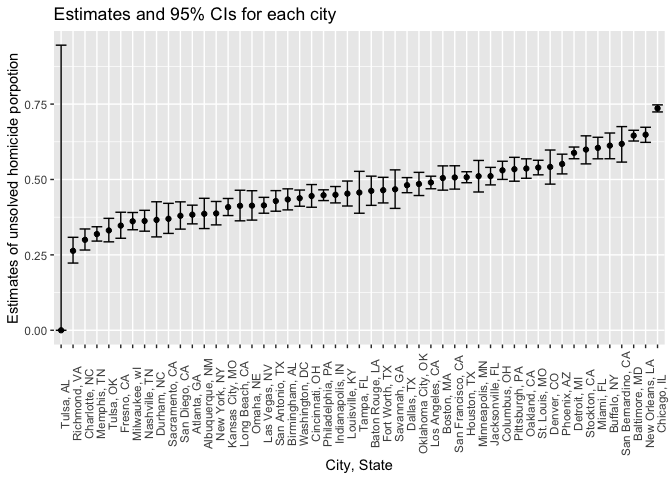
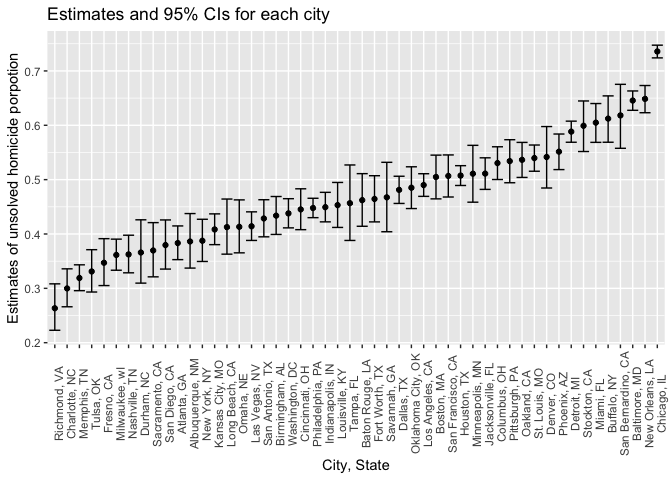
finish descriptions and contexts

diff --git a/P8105_hw5_qx2222.md b/P8105_hw5_qx2222.md
@@ -94,44 +94,29 @@ homicide = read_csv("data/homicide-data.csv") #import 'homicide' data
     ## ℹ Use `spec()` to retrieve the full column specification for this data.
     ## ℹ Specify the column types or set `show_col_types = FALSE` to quiet this message.
 
-``` r
-homicide
-```
-
-    ## # A tibble: 52,179 × 12
-    ##    uid   repor…¹ victi…² victi…³ victi…⁴ victi…⁵ victi…⁶ city  state   lat   lon
-    ##    <chr>   <dbl> <chr>   <chr>   <chr>   <chr>   <chr>   <chr> <chr> <dbl> <dbl>
-    ##  1 Alb-…  2.01e7 GARCIA  JUAN    Hispan… 78      Male    Albu… NM     35.1 -107.
-    ##  2 Alb-…  2.01e7 MONTOYA CAMERON Hispan… 17      Male    Albu… NM     35.1 -107.
-    ##  3 Alb-…  2.01e7 SATTER… VIVIANA White   15      Female  Albu… NM     35.1 -107.
-    ##  4 Alb-…  2.01e7 MENDIO… CARLOS  Hispan… 32      Male    Albu… NM     35.1 -107.
-    ##  5 Alb-…  2.01e7 MULA    VIVIAN  White   72      Female  Albu… NM     35.1 -107.
-    ##  6 Alb-…  2.01e7 BOOK    GERALD… White   91      Female  Albu… NM     35.2 -107.
-    ##  7 Alb-…  2.01e7 MALDON… DAVID   Hispan… 52      Male    Albu… NM     35.1 -107.
-    ##  8 Alb-…  2.01e7 MALDON… CONNIE  Hispan… 52      Female  Albu… NM     35.1 -107.
-    ##  9 Alb-…  2.01e7 MARTIN… GUSTAVO White   56      Male    Albu… NM     35.1 -107.
-    ## 10 Alb-…  2.01e7 HERRERA ISRAEL  Hispan… 43      Male    Albu… NM     35.1 -107.
-    ## # … with 52,169 more rows, 1 more variable: disposition <chr>, and abbreviated
-    ## #   variable names ¹reported_date, ²victim_last, ³victim_first, ⁴victim_race,
-    ## #   ⁵victim_age, ⁶victim_sex
-
 ### Describe the raw data:
 
-In the raw homicide data, there are 52179 observations and 12 variables.
+In the raw homicide data, there are 52179 observations and 12
+variables,such as uid, reported_date, victim_last, victim_first,
+victim_race, victim_age, victim_sex, city, state, lat, lon, disposition.
+This dataset describe data on more than 52,000 criminal homicides over
+the past decade in 50 of the largest American cities.
 
 ### Create new variables
 
 ``` r
 homicide = homicide %>%
   mutate(city_state = str_c(city, ", ", state)) %>%
+  filter(city_state!="Tulsa, AL") %>% #clear error data: Tulsa is not located in AL
   mutate(homicide_status = if_else(disposition == "Closed without arrest", "unsolved",
                                    if_else(disposition == "Open/No arrest", "unsolved",
                                            if_else(disposition == "Closed by arrest", "solved", NA_character_))))
 
+
 homicide
 ```
 
-    ## # A tibble: 52,179 × 14
+    ## # A tibble: 52,178 × 14
     ##    uid   repor…¹ victi…² victi…³ victi…⁴ victi…⁵ victi…⁶ city  state   lat   lon
     ##    <chr>   <dbl> <chr>   <chr>   <chr>   <chr>   <chr>   <chr> <chr> <dbl> <dbl>
     ##  1 Alb-…  2.01e7 GARCIA  JUAN    Hispan… 78      Male    Albu… NM     35.1 -107.
@@ -144,7 +129,7 @@ homicide
     ##  8 Alb-…  2.01e7 MALDON… CONNIE  Hispan… 52      Female  Albu… NM     35.1 -107.
     ##  9 Alb-…  2.01e7 MARTIN… GUSTAVO White   56      Male    Albu… NM     35.1 -107.
     ## 10 Alb-…  2.01e7 HERRERA ISRAEL  Hispan… 43      Male    Albu… NM     35.1 -107.
-    ## # … with 52,169 more rows, 3 more variables: disposition <chr>,
+    ## # … with 52,168 more rows, 3 more variables: disposition <chr>,
     ## #   city_state <chr>, homicide_status <chr>, and abbreviated variable names
     ## #   ¹reported_date, ²victim_last, ³victim_first, ⁴victim_race, ⁵victim_age,
     ## #   ⁶victim_sex
@@ -211,7 +196,6 @@ homicide_table
 | St. Louis, MO      |                     1677 |                         905 |
 | Stockton, CA       |                      444 |                         266 |
 | Tampa, FL          |                      208 |                          95 |
-| Tulsa, AL          |                        1 |                           0 |
 | Tulsa, OK          |                      583 |                         193 |
 | Washington, DC     |                     1345 |                         589 |
 
@@ -255,12 +239,7 @@ cities_final = homicide %>%
   mutate(cities_test = map(data, proptest_function)) %>%
   unnest(cities_test) %>%
   select(city_state,estimate,starts_with('conf'))
-```
 
-    ## Warning in prop.test(summary %>% pull(number_unsolved), summary %>%
-    ## pull(total_homicide)): Chi-squared approximation may be incorrect
-
-``` r
 cities_final %>%
   knitr::kable(col.names = c("City, State", "estimate","confidenceinterval_low","confidenceinterval_high"))
 ```
@@ -316,7 +295,6 @@ cities_final %>%
 | Stockton, CA       | 0.5990991 |              0.5517145 |               0.6447418 |
 | Tampa, FL          | 0.4567308 |              0.3881009 |               0.5269851 |
 | Tulsa, OK          | 0.3310463 |              0.2932349 |               0.3711192 |
-| Tulsa, AL          | 0.0000000 |              0.0000000 |               0.9453792 |
 | Washington, DC     | 0.4379182 |              0.4112495 |               0.4649455 |
 
 ### Create plot
@@ -345,6 +323,9 @@ ggsave(
   units = "cm"
   ) #export plot to 'results' directory
 ```
+
+This plot shows the estimates and CIs for each city and organize cities
+according to the proportion of unsolved homicides.
 
 ## Problem 3
 
@@ -411,7 +392,12 @@ ggsave(
   ) #export plot to 'results' directory
 ```
 
-Describe the association between effect size and power:
+### Describe the association between effect size and power:
+
+From the plot in output, we could see there is a increasing trend
+between the proportion of times the null was rejected and the true mean.
+Thus, there is a postive relationship between power and effect size.
+When the effect size increases, the power increases.
 
 ### Make a plot showing the average estimate of μ̂ on the y axis and the true value of μ on the x axis
 
@@ -460,7 +446,9 @@ overlay_plot = ggplot(all_estimates, aes(x = mean, y = average_estimate)) +
   geom_point(data = all_estimates, aes(color = "blue"))+
   scale_colour_manual(name = "",
                       values = c("orange" ="orange", "blue" = "blue"),
-                      labels = c("All", "Rejected"))
+                      labels = c("All", "Rejected"))+
+  labs(x = "true mean", y = "the average estimate",
+       title = "the true mean v.s. the average estimate")
   
 overlay_plot 
 ```
@@ -476,3 +464,20 @@ ggsave(
   units = "cm"
   ) #export plot to 'results' directory
 ```
+
+### Answer questions:
+
+Is the sample average of μ̂ across tests for which the null is rejected
+approximately equal to the true value of μ? Why or why not?
+
+From the final overlay plot, we could conclude the sample average of μ̂
+across tests for which the null is not approximately equal to the true
+value of μ. When the true mean is smaller than 4, the sample average
+estimates are very different with the true value. But then the true mean
+is between 4 and 6, the sample average estimates are more and more close
+to the true value. Because, when the effect size is small and the power
+is low, which makes fewer rejected samples and lower reject proportion.
+Thus, the average estimates are far away with the true value. On the
+contrary, when the effect size is big and the power is high, which makes
+more rejected samples and higher reject proportion. Thus, the average
+estimates are close to the true value.
